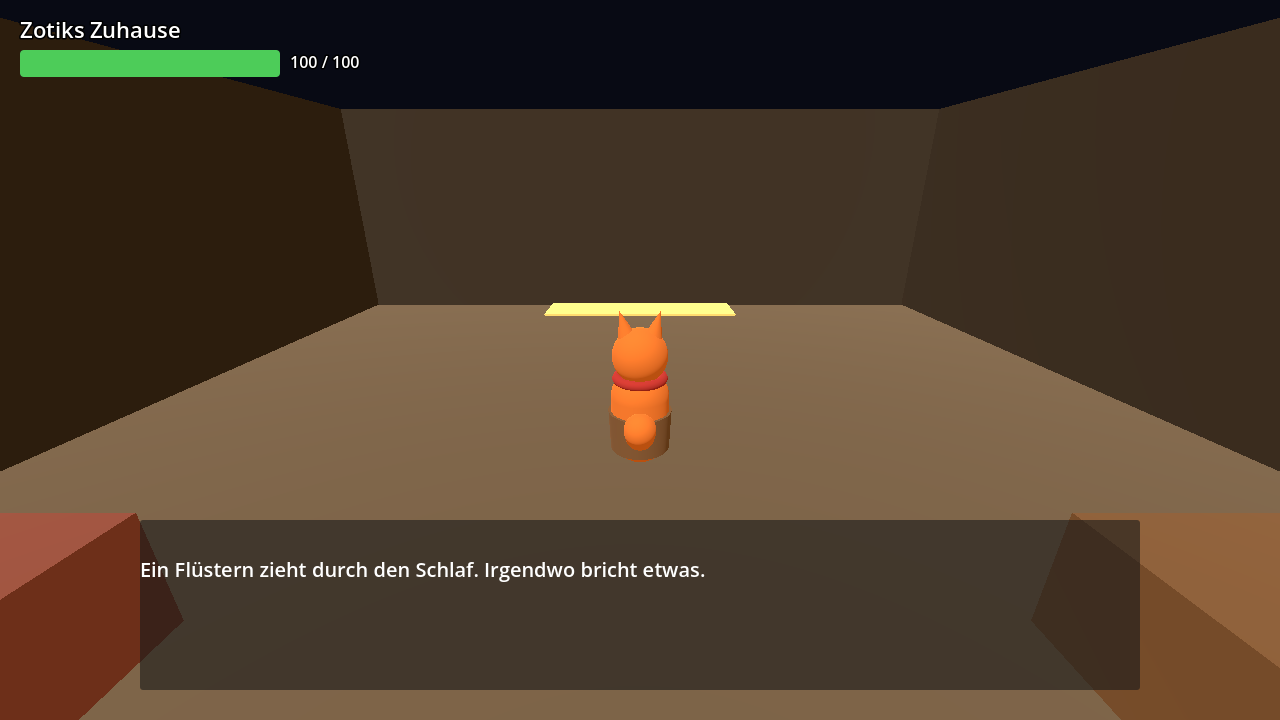
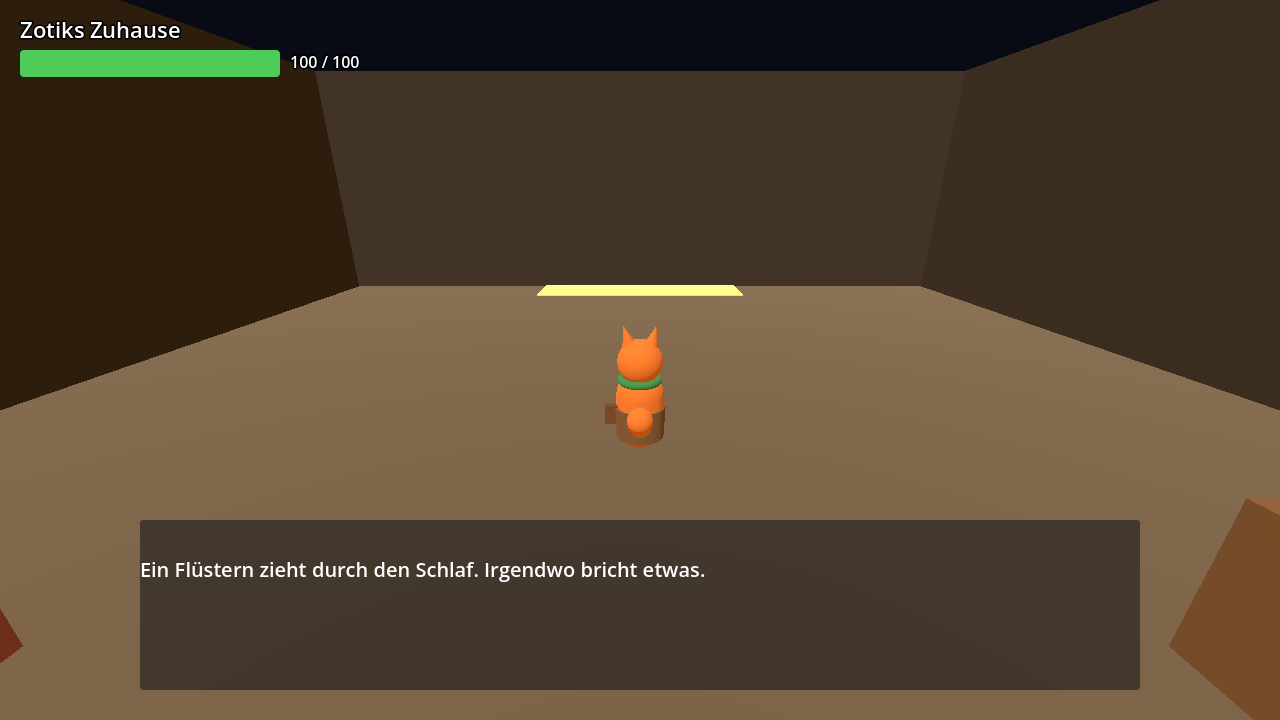
Integrate owner concept references
Store the 20 uploaded concept boards (JPEG) with an index; apply canon-
consistent details: green scarf default, brown shoulder bag, interim
relative scale (Zotik ~1.2 m) with matching collision/camera and enemy
sizes. Log conflicting concept details (C-23..C-28); casino scope
resolved (virtual Lun + family toggle).

Claude-Session: https://claude.ai/code/session_01D64FBPKosMPWYDNkmQT7wn

diff --git a/reference/concept_2026-10-02/README.md b/reference/concept_2026-10-02/README.md
@@ -1,0 +1,29 @@
+# Concept references uploaded by the project owner (2026-10-02)
+
+Status: **CONCEPT / ART DIRECTION – not approved master sheets.**
+- These images are generated. Text and numbers in them (sizes, stats, levels, prices) are illustrative until confirmed in a written spec (`START_HERE_CLAUDE.md`).
+- `reference/approved/` and the written specifications take precedence.
+- The originals were PNGs (57 MB); they are stored here as JPEG (quality 82) to keep the repository small.
+
+| File | Content | Used for |
+|---|---|---|
+| 01_master_sheets_1.0_hauptfiguren | Zotik, Mein Zotik modular, Mira, Lyra, Rovan & Nia, Professorium, Nautilux, size comparison | green scarf default, relative scale (C-23) |
+| 02_technical_sheets_1.0 | rig/topology, cosmetic slots, animation bible, scale & collision, modular kit, materials, cinematography, accessibility | cosmetic slot list, telegraph colours |
+| 03_gegner_boss_waffen_1.0 | Rissling, Mondwolf, Orun phases, Weltenklinge stages 0–4 | enemy/boss colours |
+| 04_hauptcharaktere_zotik_mira_professorium | turnarounds, expressions, palettes | palettes |
+| 05_zotik_master_character_sheet_1.0 | canonical Zotik turnaround, palette, Reiseklinge, ~120 cm | green scarf, brown bag, scale |
+| 06_master_sheets_2.0_welt_objekte | characters, Lunaris architecture, Mondwald, Mondtor, Risshöhle, enemies, UI, VFX | environment direction |
+| 07_weltkarte_demo | world map of all 10 worlds | world map direction |
+| 08_turm_der_erinnerung_demo | ELARIS_TURM_01 HUD demo | matches the implemented puzzle (the human figure is rejected, C-24) |
+| 09_ruhmeshalle_casino | Hall of 100 ranks, casino ("Nur virtuelles Geld") | casino scope (C-20 resolved) |
+| 10_key_art_titel_handbuch | key art, title screen, game manual | title direction |
+| 11_marktplatz_shop_demo | market/shop UI | shop UI direction |
+| 12_kryothorn_frosthain | Frosthain beast concept | later chapter |
+| 13_feature_overview | Mein Zotik, marketplace, giftcodes, local saves, casino family toggle, multiplayer | casino family toggle |
+| 14_kampf_elemente_konzept | turn/command combat concept, elements, status effects | conflicts with real-time combat (C-25) |
+| 15_asset_bible | characters, monsters, worlds, UI | world names differ (C-26) |
+| 16_riss_dialog_felli | dialogue with choices, companion "Felli" | C-27 |
+| 17_lyra_lichtmagierin | Lyra as light mage, blue hair, from Lunaris | C-28 |
+| 18_lunaris_hud_demo | HUD with party, MP, skills | HUD direction |
+| 19_android_demo | Android UI, casino, hall of 100 | platform direction |
+| 20_party_poster | party incl. Moosling companion and Nautilux | C-27 |

diff --git a/docs/CONFLICTS.md b/docs/CONFLICTS.md
@@ -24,3 +24,12 @@ Format: ID – description – status / interim handling. Interim handling is th
 - C-20 – `04_WORLDS` lists a casino in Valdoria. The addendum forbids real-money casinos, and the Phase-1 master design deferred the casino. – Interim: the casino is deferred, and Valdoria shows a closed casino building.
 - C-21 – Valdoria NPC roles are not specified. – Interim: names come from the legacy NPC list where possible (Veyr, Elio is already used) plus clearly marked placeholder roles. All dialogue is placeholder.
 - C-22 – `06_SYSTEMS` lists armour and headgear slots, but `docs/03` has no armour namespace. – Interim: added `ARMOR_` (slot `armor`) for Valdoria's smithy. Headgear is still deferred.
+
+## From owner concept uploads 2026-10-02 (`reference/concept_2026-10-02/`)
+- C-20 – **RESOLVED by owner material:** the casino is wanted, but only with virtual Lun ("Nur virtuelles Geld"), and families must be able to switch it off ("Familienoption: Casino deaktivieren"). It is implemented in Valdoria with a settings toggle.
+- C-23 – Scale: several boards consistently show Zotik ≈ 110–120 cm, humans 162–180 cm, Rissling 70 cm, Mondwolf 140 cm, Orun 300 cm. – Interim: placeholders use these ratios (Zotik ≈ 1.2 m). They are still not final (C-01).
+- C-24 – Two demo images (Turm der Erinnerung, Lunaris key scene) show a **human** protagonist. This contradicts the canon (Zotik is not human) and is rejected.
+- C-25 – `14_kampf_elemente_konzept` shows round-based command combat with MP, elements and status effects. The implemented and specified combat is real-time (`05_GAMEPLAY`). – Interim: real-time stays; elements and MP remain deferred (C-17).
+- C-26 – `15_asset_bible` uses different world names (Eldoria, Vulcanis, Aquael, Umbra, Sylvaris, Crythos, Zerath). – Interim: the world names from `01_MASTER` / `04_WORLDS` are used.
+- C-27 – Several images show a green creature companion ("Felli" / "Moosling – der Waldgeist"), but the legacy docs list the Moosling as an enemy. – Owner decision needed; not implemented.
+- C-28 – Lyra is pink-haired on two boards and blue-haired and "aus Lunaris" on others. Nia appears both as an archer and as a "Heilerin/naturverbunden". – Interim: keep the written specs (Lyra = researcher/mage/healer, Nia = archer). Placeholder colours are unchanged.

diff --git a/docs/MILESTONE_LOG.md b/docs/MILESTONE_LOG.md
@@ -340,3 +340,12 @@ Standing owner approval was recorded in `CLAUDE.md` (rule 8 update). The plan is
 - New **armour slot** (`ARMOR_`, C-22): Lederwams and Kanalmantel. Also new: Stahlschwert and Elixier.
 - `data/lore.json` + `LoreBook` entity: readable library books shown in the dialogue box and validated like dialogue.
 - Tests: `tests/unit/test_v01_valdoria.gd` (4 tests).
+
+## Owner concept uploads (2026-10-02) – integrated
+- 20 concept boards were stored as JPEG in `reference/concept_2026-10-02/` (57 MB → 9.5 MB), with an index and status "concept, not approved".
+- Applied, consistent with written canon:
+  - Zotik's default scarf is now **green**. `03_CHARACTERS` says so; the earlier red default was wrong.
+  - He now has a brown shoulder bag.
+  - The placeholder scale follows the size comparison on the boards: Zotik ≈ 1.2 m; Rissling, Mondwolf and Orun are resized to match. Collision and camera were adjusted (C-23).
+- Logged instead of decided: C-24 to C-28 (human protagonist in demo images rejected, round-based combat concept, alternative world names, the "Felli"/Moosling companion, Lyra's hair colour and Nia's role).
+- C-20 resolved: the casino is wanted with virtual Lun and a family toggle. It is implemented in V03.
